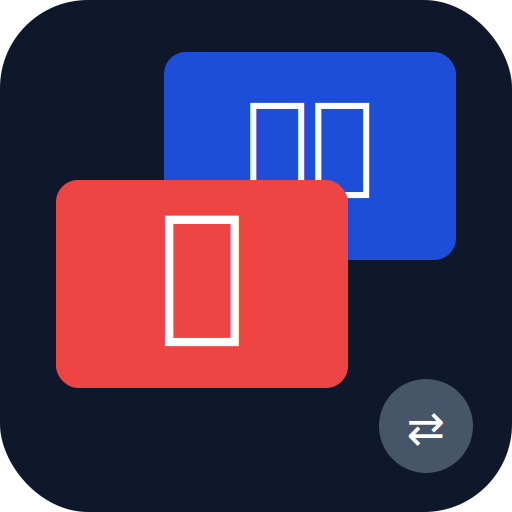
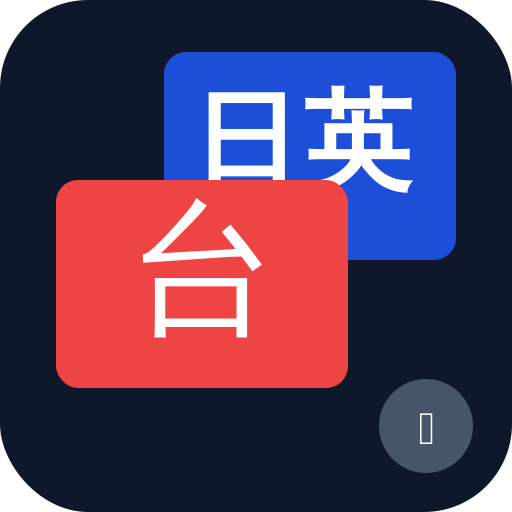
3件の修正: アイコン文字化け・メニューバー・新規カードボタン
1. icon: CJKフォント(WenQuanYi)を明示してPNG再生成
   台・日英が□にならず正しく表示される

2. layout.css: ボトムナビのiOS Safe Area対応を修正
   height を calc(nav-height + safe-area-inset-bottom) に変更し
   アイテムに固定高さを設定してはみ出しを防止

3. app.js + components.css: 「新しいカードを覚える」ボタン追加
   未学習カードがある場合に学習セットアップ画面へ表示
   「ランダム10枚」→「ランダムな10枚」表記も修正
   btn--outline スタイルを components.css に追加

https://claude.ai/code/session_01PfBNmGqQVmXWKuJNwx16Pd

Changed region(s): [[0.4062, 0.1562, 0.8125, 0.4062], [0.2812, 0.375, 0.5312, 0.6875], [0.7812, 0.7812, 0.875, 0.875]]

diff --git a/js/app.js b/js/app.js
@@ -281,6 +281,8 @@ async function renderStudySetup() {
   const newLimit = settings.dailyNewLimit;
 
   const newAvailable = allWordIds.filter(id => !allCards[String(id)]).length;
+  const filteredWordIds = Vocab.getFilteredWordIds(settings.studyLevel || 'all');
+  const filteredNewAvailable = filteredWordIds.filter(id => !allCards[String(id)]).length;
   // 今日すでに導入した新規カード数を引いて、残り枠を正確に計算
   const today = new Date().toDateString();
   const todayNewCount = Store.getHistory()
@@ -316,10 +318,13 @@ async function renderStudySetup() {
         </div>
 
         <button class="btn btn--primary btn--full" id="begin-session-btn">
-          ${dueIds.length === 0 && newToday === 0 ? 'ランダム10枚を復習する' : '学習開始'}
+          ${dueIds.length === 0 && newToday === 0 ? 'ランダムな10枚を復習する' : '学習開始'}
         </button>
         ${dueIds.length === 0 && newToday === 0
           ? '<p class="text-muted text-sm" style="text-align:center;margin-top:var(--space-3)">今日の学習は完了しています。学習済みカードからランダムに10枚を復習します。</p>'
+          : ''}
+        ${filteredNewAvailable > 0
+          ? `<button class="btn btn--outline btn--full" id="learn-new-btn" style="margin-top:var(--space-3)">新しいカードを覚える</button>`
           : ''}
       </div>
 
@@ -355,6 +360,17 @@ async function renderStudySetup() {
     } else {
       await startStudySession(container);
     }
+  });
+
+  // 新しいカードを覚えるボタン
+  container.querySelector('#learn-new-btn')?.addEventListener('click', async () => {
+    const unseenIds = filteredWordIds.filter(id => !Store.getAllCards()[String(id)]);
+    if (unseenIds.length === 0) {
+      toast('このレベルの未学習カードはありません。', 'info');
+      return;
+    }
+    const batch = unseenIds.slice(0, settings.dailyNewLimit || 10);
+    await startStudySession(container, batch);
   });
 }
 

diff --git a/css/layout.css b/css/layout.css
@@ -55,11 +55,12 @@
   bottom: 0;
   left: 0;
   right: 0;
-  height: var(--nav-bottom-height);
+  height: calc(var(--nav-bottom-height) + env(safe-area-inset-bottom));
   background: var(--color-surface);
   border-top: 1px solid var(--color-border);
   display: flex;
-  align-items: stretch;
+  align-items: flex-start;
+  padding-top: 0;
   padding-bottom: env(safe-area-inset-bottom);
   z-index: 100;
   transition: background-color var(--transition-normal);
@@ -72,6 +73,7 @@
   align-items: center;
   justify-content: center;
   gap: 3px;
+  height: var(--nav-bottom-height);
   cursor: pointer;
   color: var(--color-text-muted);
   font-size: 10px;

diff --git a/css/components.css b/css/components.css
@@ -43,6 +43,15 @@
   background: var(--color-bg);
 }
 
+.btn--outline {
+  background: transparent;
+  color: var(--color-primary);
+  border-color: var(--color-primary);
+}
+.btn--outline:hover {
+  background: var(--color-primary-light);
+}
+
 .btn--ghost {
   background: transparent;
   color: var(--color-text-muted);
